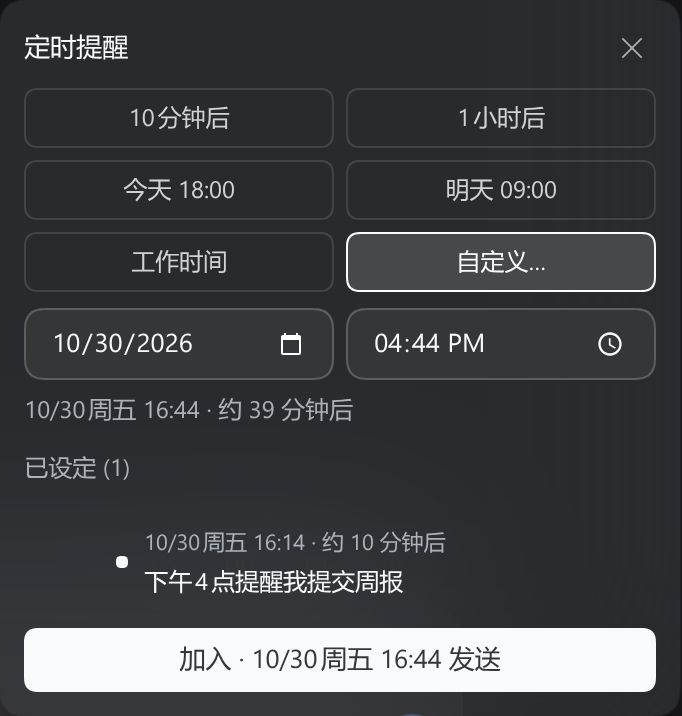
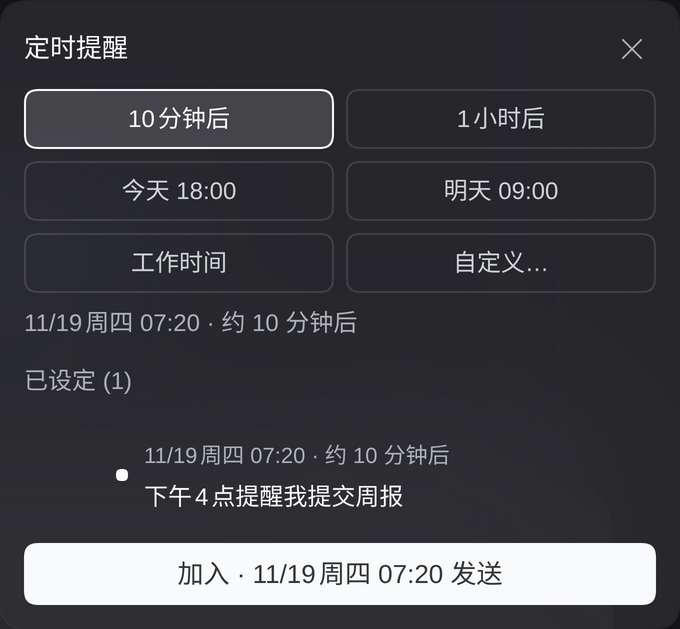
docs: 重录 4 个动图与 3 张静态截图（旧素材缺暂停按钮、模型名过期）
旧素材停在 2026-09～10，画面里 dock 每行只有 3 个按钮（编辑 / 删除 /
插话），而 09-17 起就有了暂停；模型名还写着已下线的 Omen Alpha 与
Flash Default。文档说明也在描述当时的行为。

采集方式：盒子实例（testbox profile / dsh-later 1.14.0）上用 CDP 直连
Chrome，Input.insertText 逐字输入 + Input.dispatchKeyEvent 回车，
Page.captureScreenshot 连拍，ffmpeg libwebp_anim 编码。

- docs-later-full.webp      74帧 → 66帧，三条 /later 命令（+5s / +3m /
                            +1h20m），+5s 那条到点送达
- docs-scheduler-create     6 帧，输入 → 面板选中 → 加入 → dock
- docs-scheduler-fired      30帧 → 36帧，/schedule +1m 到点触发
- docs-later.webp           4 帧，全部围绕 /later（旧版三帧是无关内容）
- screenshot-panel.png      改由面板元素精确裁切，680x629 @2x
- screenshot-dock.png       倒计时中段重截，1400x217 @2x
- screenshot-fired.png      只截带 ⏰ 的首行（措辞由模型生成，不作为固定文案）

README 两处说明随之修正：dock 一行四个按钮（补暂停与插话）、到期消息改
写「一条带 ⏰ 的消息（措辞由模型即时生成）」，因为旧图里的「定时提醒」
只是那一次模型的措辞，不是插件文案。scripts/capture/README.md 的按钮
语义与到期检测描述同步更新。

diff --git a/scripts/capture/README.md b/scripts/capture/README.md
@@ -8,7 +8,7 @@
 |---|---|---|
 | `docs/media/screenshot-panel.png` | 定时面板（快捷时段 / 自定义时间 / 已设定列表） | 元素截图（2x） |
 | `docs/media/screenshot-dock.png` | 待发送 dock + 输入框（倒计时中段，进度条可见） | 固定区域裁剪（2x） |
-| `docs/media/screenshot-fired.png` | 到期「⏰ 定时提醒」消息块 | 真实触发后全页裁剪 |
+| `docs/media/screenshot-fired.png` | 到期消息的第一行（带 ⏰，措辞由模型生成） | 真实触发后裁首行 |
 | `docs/media/docs-scheduler-create.webp` | 输入 → 面板 → 加入 → dock | 7 帧分镜 + ffmpeg palette |
 | `docs/media/docs-scheduler-fired.webp` | 倒计时跳动 → 注入行 + toast → 定时提醒消息 | 1fps 连续采帧 + 变速合成 |
 
@@ -37,9 +37,9 @@ node capture-all.cjs --out /tmp/ss-out
 
 ## 采过的坑（改脚本前先读）
 
-- **dock 行内三个按钮的语义**：编辑 ✎ / 删除 🗑 / **插话发送 ↑**。清理任务只能点 `[aria-label="删除提醒"]`；点错「插话发送」会把提醒立刻 steer 进 agent 并唤醒模型（`aria-label`：`编辑提醒` / `删除提醒` / `插话发送`）。
+- **dock 行内四个按钮的语义**：编辑 ✎ / 暂停 ⏸ / 删除 🗑 / **插话发送 ↑**。清理任务只能点 `[aria-label="删除提醒"]`；点错「插话发送」会把提醒立刻 steer 进 agent 并唤醒模型（`aria-label`：`编辑提醒` / `暂停提醒` / `删除提醒` / `插话发送`）。暂停只对 `after` 且未到点的行开放，`at` / `every` 那行按钮置灰。
 - **contenteditable 输入框**不能用 `fill('')` 清空（受控组件会回填旧值导致文字翻倍），用 Ctrl/Cmd+A + Backspace 并校验 `innerText` 长度。
-- **到期检测**：注入行文案是「上下文注入 · 定时提醒 · HH:MM · 内容」，用户可见消息由模型随后呈现为「⏰ 定时提醒」+ 引用块——不要拿旧文案「定时提醒到点」做检测。
+- **到期检测**：注入行文案是「上下文注入 · 定时提醒 · HH:MM · 内容」；用户可见的那条消息**由模型自己措辞**（本次是「⏰ 周报提醒：…」，下次可能换说法），所以 `screenshot-fired.png` 只能截「带 ⏰ 的第一行」，不要期待固定标题——README 里也不要把它写成固定文案。
 - **面板时间输入**默认带分段选中态（蓝色高亮），截图前点一下 `.ss-panel-title` 失焦。
 - **进度条**：dock 底部有倒计时进度条，任务刚创建时≈0（视觉上像残影），在倒计时中段（T-100s 左右）截 dock 最好看。
 - **共享 Playwright MCP 浏览器**别用——其它 DSH 会话可能同时在操控它（语言/页面会被切走）；本目录脚本每次自起独立 headless 实例。

diff --git a/README.en.md b/README.en.md
@@ -132,11 +132,11 @@ The sidebar hover card gains one status line ("3 scheduled reminder(s), next 15:
 
 <img src="docs/media/screenshot-panel.png" width="340" alt="Schedule panel"/>
 
-**Pending dock** — countdown rows above the input box (inline edit / cancel):
+**Pending dock** — countdown rows above the input box (inline edit / pause / delete / send now):
 
 <img src="docs/media/screenshot-dock.png" width="700" alt="Pending dock and input box"/>
 
-**A real due-time firing** — when the time comes, a `⏰ Scheduled reminder` message appears in the conversation (fires even with the page closed):
+**A real due-time firing** — when the time comes, a ⏰-prefixed message appears in the conversation (the wording is generated by the model and varies with the reminder text; it fires even with the page closed):
 
 <img src="docs/media/screenshot-fired.png" width="560" alt="Due-time reminder message"/>
 
